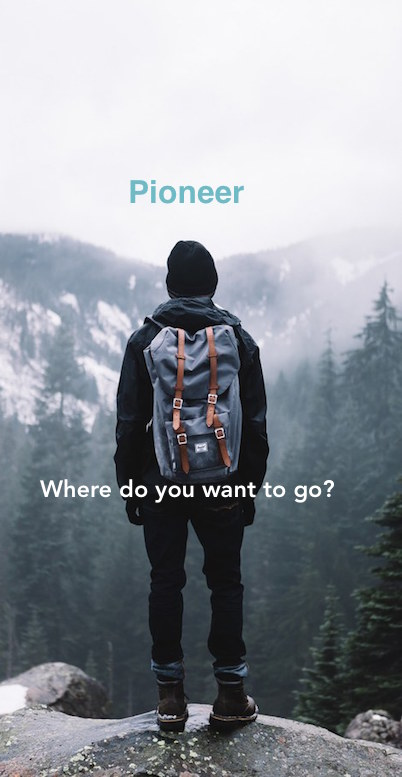
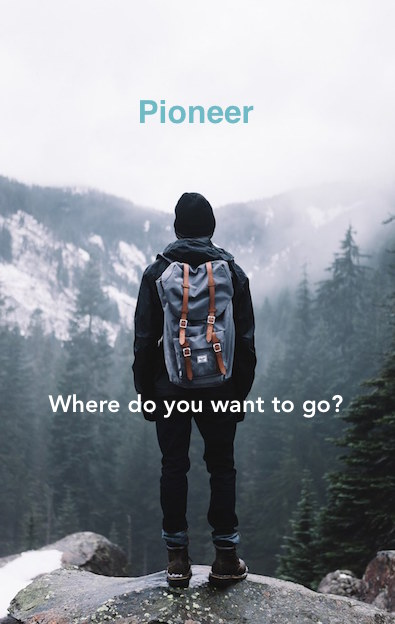
make image smaller, trying to pull search bar in fron

diff --git a/Pioneer/Main.js b/Pioneer/Main.js
@@ -183,7 +183,9 @@ class Main extends Component {
     return (
 
       <View style={styles.mainContainer}>
-
+        <View>
+          <Image style={styles.background} source={require('./index.jpg')}/>
+        </View>
       <TouchableHighlight
       style={styles.button1}
       onPress={this.getCurrentLocation.bind(this, likeCollection)}

diff --git a/Pioneer/index.ios.js b/Pioneer/index.ios.js
@@ -160,7 +160,7 @@ const styles = StyleSheet.create({
     },
     nav: {
     	height: 60,
-      backgroundColor: '#F4F6F7',
+      backgroundColor: '#F6F7F8',
     },
     // title: {
     // 	marginTop:4,
